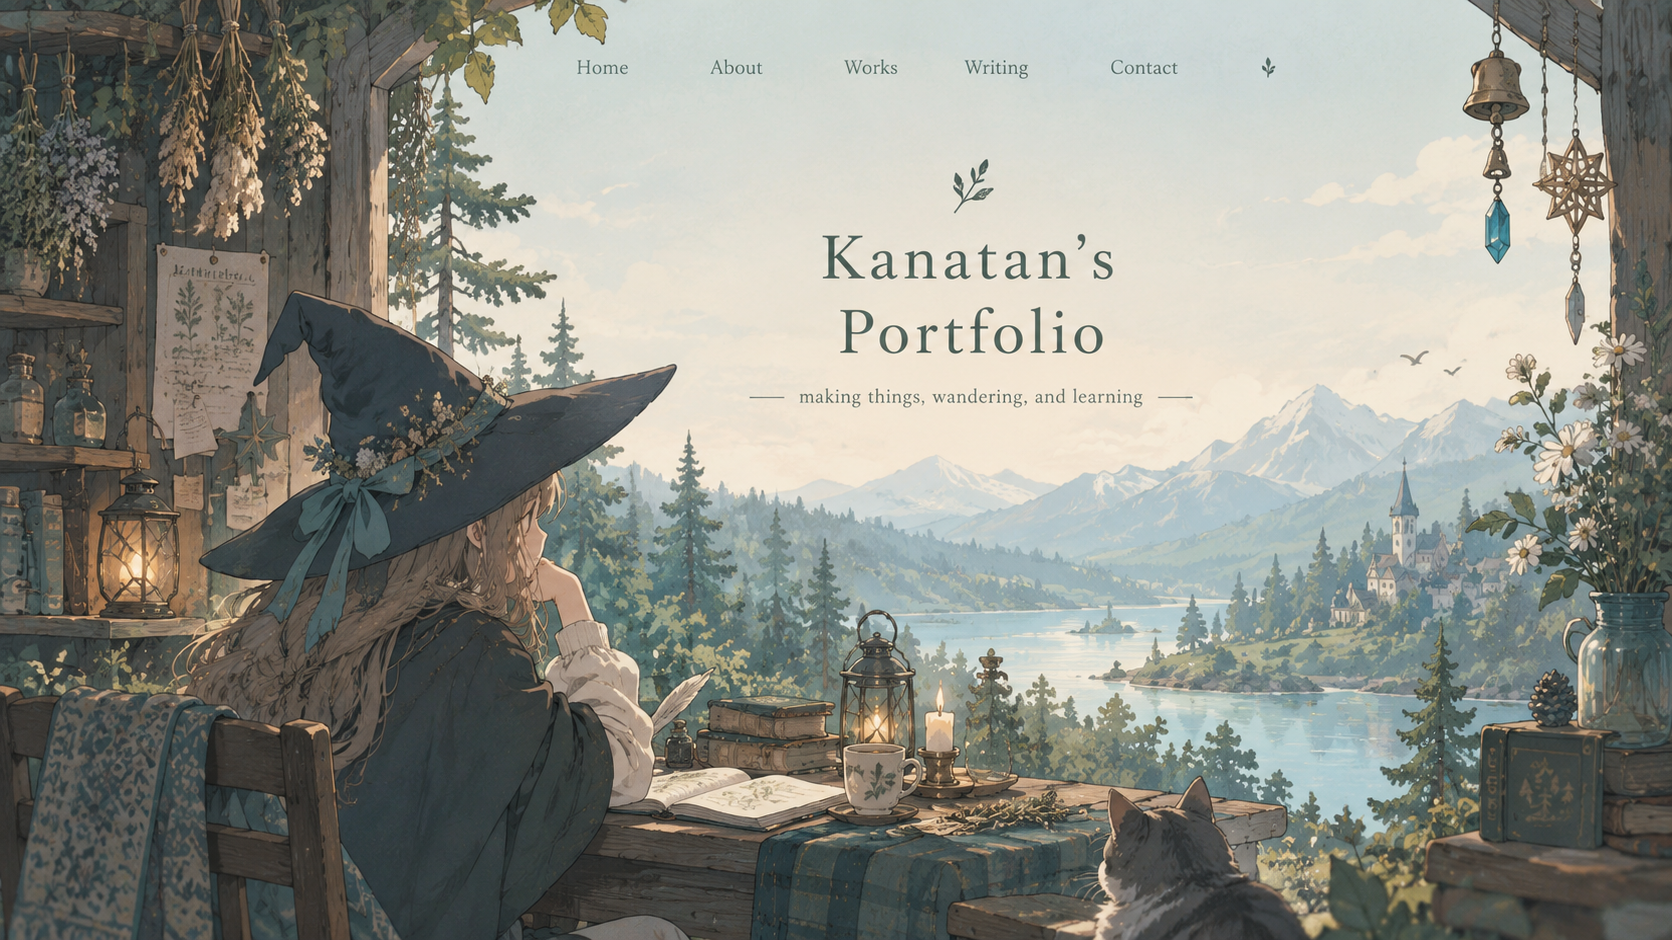
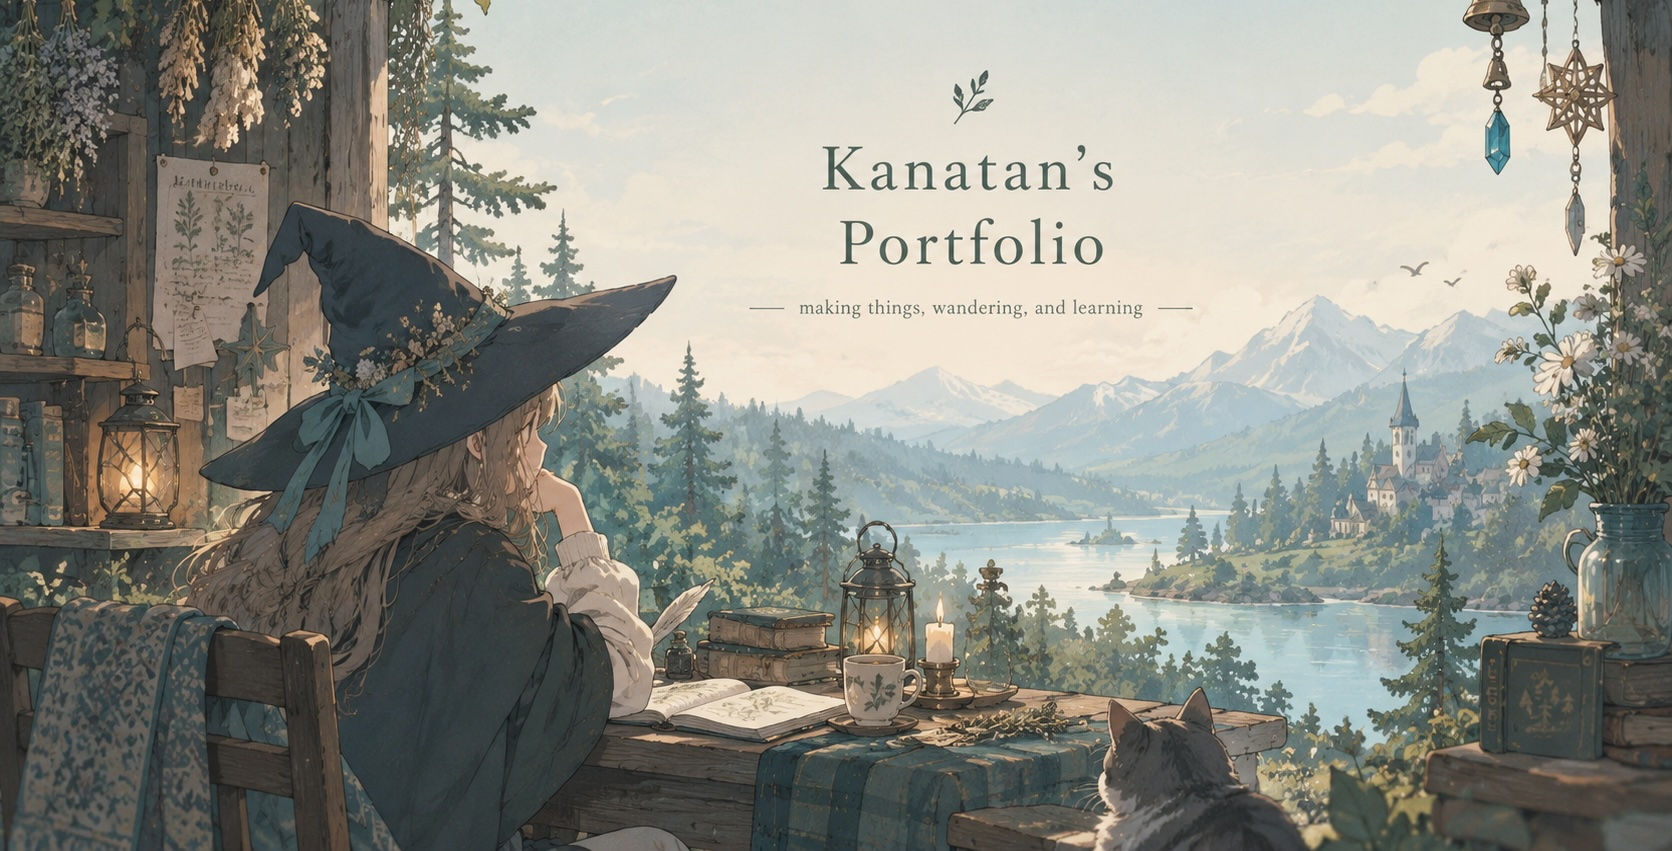
header size changed

diff --git a/style.css b/style.css
@@ -57,7 +57,6 @@ header {
     linear-gradient(rgba(255, 250, 240, 0.15), rgba(255, 250, 240, 0.15)),
     url("images/header.png");
   background-size: cover;
-  background-position: center 55%;
 }
 
 /* スマホ用 */
